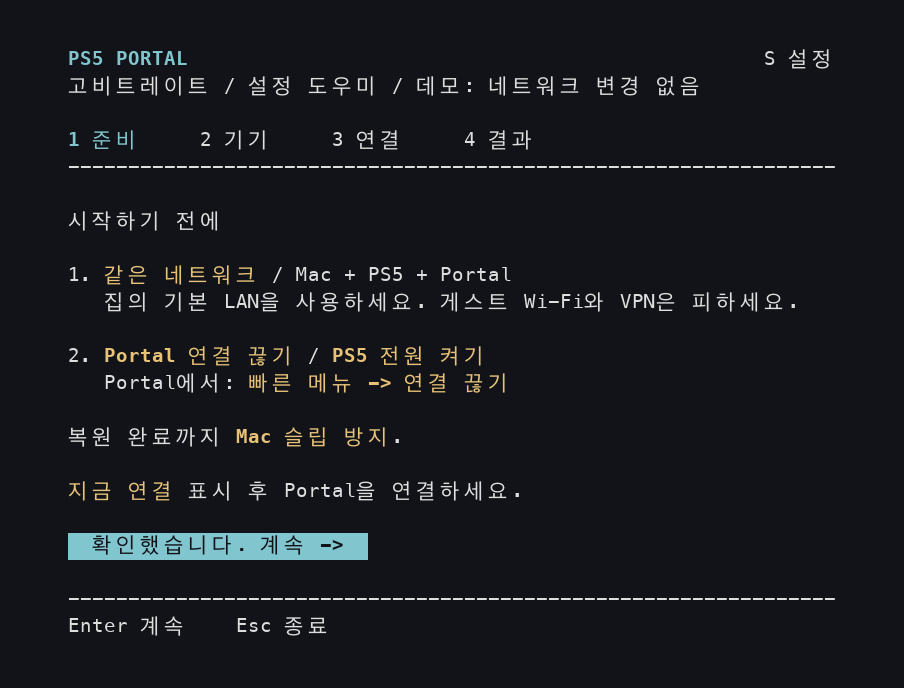
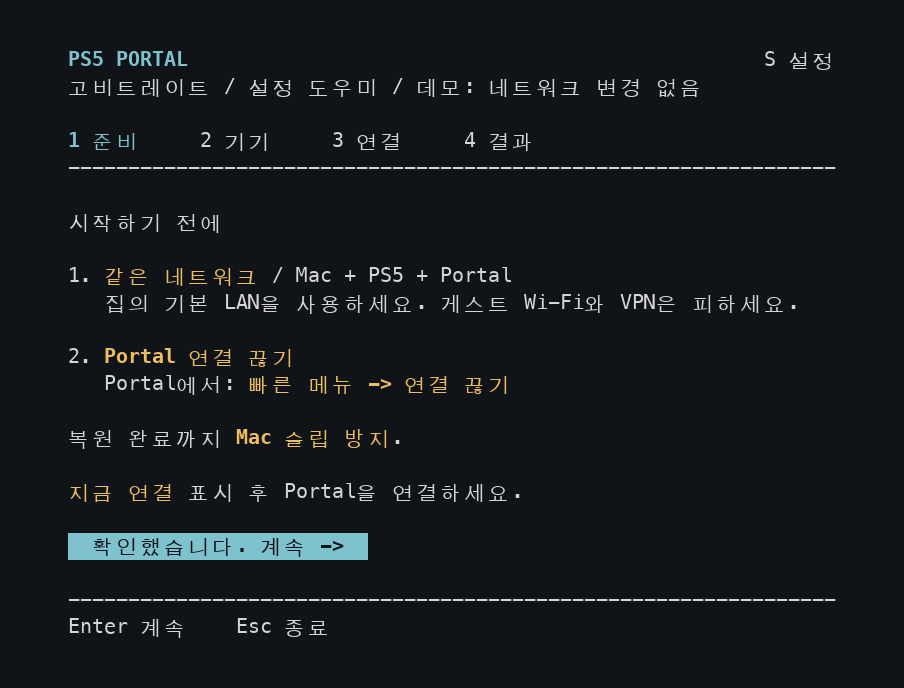
docs: remove the PS5 power-on prerequisite

diff --git a/portal_tui.py b/portal_tui.py
@@ -126,8 +126,8 @@ def summarize(report):
         title = ('Attempt stopped' if message == 'Cancelled by user' else
                  'Setup check failed' if report.get('preflight_failed') else 'Could not finish')
         return Result('warning', title, message,
-                      ('No network mappings were changed. Keep both devices awake on the same LAN. '
-                       'Check the addresses and LAN adapter, then try again.'
+                      ('No network mappings were changed. '
+                       'Check the device addresses and LAN adapter, then try again.'
                        if report.get('preflight_failed') else
                        'Network restoration completed. You can try again or quit.'))
     if not report.get('unique_mutated_sequences'):
@@ -492,8 +492,7 @@ class Wizard:
                             ('  /  Mac + PS5 + Portal', 0))
                 self.put(10, 7, 'Use the main LAN; avoid guest Wi-Fi and VPN routes.', self.curses.A_DIM)
                 self.inline(12, 4, ('2. ', self.curses.A_DIM),
-                            ('DISCONNECT PORTAL', highlight),
-                            ('  /  keep ', 0), ('PS5 powered on', highlight))
+                            ('DISCONNECT PORTAL', highlight))
                 self.inline(13, 7, ('On Portal: ', self.curses.A_DIM),
                             ('Quick Menu -> Disconnect', highlight))
                 self.inline(15, 4, ('Keep this ', 0), ('Mac awake', highlight),

diff --git a/portal_auto_platform.py b/portal_auto_platform.py
@@ -79,7 +79,7 @@ def state_for(c, enroll=False):
         found = {win.normal_mac(r[ARP].hwsrc) for _, r in ans if ARP in r and r[ARP].op == 2 and r[ARP].psrc == ip}
         if enroll:
             if len(found) != 1:
-                raise RuntimeError(f'{ip}: wake the device and verify its IP, then enroll again.')
+                raise RuntimeError(f'{ip}: verify the device IP and LAN connection, then enroll again.')
             state[key] = found.pop()
         else:
             state[key] = win.normal_mac(c[key])

diff --git a/AUTOMATION.md b/AUTOMATION.md
@@ -16,7 +16,7 @@ The packet-layout gate and inferred offsets have the same firmware limitations a
 2. Install **64-bit Python 3.10+ from [python.org](https://www.python.org/downloads/windows/)**. For the startup task, use the full installer, select installation for all users under `C:\Program Files`, and install the Python launcher. A Microsoft Store or per-user Python installation is not suitable for the SYSTEM task.
 3. Install [Npcap](https://npcap.com/#download), with WinPcap API-compatible mode. Normal Ethernet framing is required; do not enable Wi-Fi monitor mode. This project does not bundle Npcap. Reboot if its installer requests it.
 4. Run `Setup-Windows.cmd`. It creates `.venv`, installs the pinned Scapy dependency and runs offline tests. If `py -3` chooses a per-user Python, recreate `.venv` using your all-users Python's full path before proceeding.
-5. Power on PS5 and Portal. Right-click `Auto-Windows.cmd`, choose **Run as administrator**, enter `Configure`, then profile `65` for the first test. Select the **menu number** of the Ethernet/Wi-Fi adapter connected to your PS5/Portal LAN, then enter both device IPv4 addresses. The PC IP printed beside the adapter is information only. Older preview.1 asks for an interface name/GUID: use the adapter name or full Npcap device ID, never the PC IP. Their MAC addresses are enrolled locally. Use no VPN, guest network or client isolation.
+5. Keep Portal on and connected to Wi-Fi. Right-click `Auto-Windows.cmd`, choose **Run as administrator**, enter `Configure`, then profile `65` for the first test. Select the **menu number** of the Ethernet/Wi-Fi adapter connected to your PS5/Portal LAN, then enter both device IPv4 addresses. The PC IP printed beside the adapter is information only. Older preview.1 asks for an interface name/GUID: use the adapter name or full Npcap device ID, never the PC IP. Their MAC addresses are enrolled locally. Use no VPN, guest network or client isolation.
 6. Disconnect Portal's play session. Run the same menu as administrator, choose `Baseline`. After **BASELINE READY**, connect Portal and check picture and controls for 60 seconds. This forwards without changing the bitrate. A receipt is saved only if outbound traffic was forwarded and recovery completed. It does not automatically verify video or responsiveness.
 7. If baseline is usable, choose `Run` for a foreground active trial. After **AUTO READY**, disconnect/reconnect Portal. Check the Portal's network display and play a moving scene. Stop with Ctrl+C and allow restoration. If this fails, do not install the task.
 8. Choose `Install` only after those tests. Confirm your baseline observation. The installer copies an allowlist of files into an Administrators/SYSTEM-only folder under `C:\ProgramData\PortalBitrateAuto`, creates its own virtual environment and registers `PortalBitrateAutoPreview` in Task Scheduler as SYSTEM at startup. It starts the task now. No account password/token is saved.
@@ -38,7 +38,7 @@ sh Auto-Linux.sh setup
 sh Auto-Linux.sh configure 65
 ```
 
-The configure step asks for the physical LAN interface (for example `eth0` or `enp3s0`) and both IPv4 addresses. Find yours with `ip -br link` and `ip -br addr`. Both devices must be awake during enrollment.
+The configure step asks for the physical LAN interface (for example `eth0` or `enp3s0`) and both IPv4 addresses. Find yours with `ip -br link` and `ip -br addr`. Both devices must be reachable on the LAN during enrollment.
 
 1. Disconnect Portal's play session. Run `sh Auto-Linux.sh baseline` and connect after **BASELINE READY**. Check picture and controls during the 60-second unchanged relay trial.
 2. If usable, run `sh Auto-Linux.sh run`. Connect after **AUTO READY**, check the Portal display and play. Ctrl+C stops and repairs its ARP entry.

diff --git a/WINDOWS.md b/WINDOWS.md
@@ -23,7 +23,7 @@ You do not need Git or Wireshark. Installation downloads Scapy and [windows-curs
 
 On first launch, choose **English, 简体中文, 日本語, 한국어, Español or Français**. Your choice is saved. Press **S** later to change language without restarting.
 
-1. **Prepare:** keep Portal disconnected from PS5, keep PS5 on, and check that PC, PS5 and Portal use the same home network.
+1. **Prepare:** keep Portal disconnected from PS5 and check that PC, PS5 and Portal use the same home network.
 2. **Devices:** enter the PS5 and Portal **IPv4 addresses** from your router’s device list. On first use, **PC LAN adapter** suggests the connection Windows uses to reach both devices directly. Check it, or use **← / →** to choose your Wi-Fi or Ethernet connection. Saved and manual choices are kept. If no connection can be suggested, choose it yourself and check both addresses. Choose **65 Mbps** for your first attempt, then **Save and prepare connection**. Use Tab or ↑ / ↓ to move between rows and Enter to continue.
 3. **Connect:** keep Portal disconnected during **WAIT**. When **CONNECT NOW** appears, connect Portal to PS5 normally. The **120-second countdown** starts at that prompt. A request near the end still gets its own confirmation window. Follow the terminal art as the request, PS5 acceptance and target reports arrive.
 4. **Result:** **Bitrate target confirmed** means the software observed the higher target, checked local packet egress and completed its restoration steps. **Check picture, sound and controls on Portal.** If the screen is black, disconnect and reconnect normally without Better Portal. Press **D** for local report/recovery details, **Enter** to retry when allowed, or **Q** to quit.
@@ -58,7 +58,7 @@ Read the error below the title. Press **D**, then **↑ / ↓**, to read the ful
 
 **A device cannot be reached, or the route/forwarding check fails.**
 
-Keep both devices awake, check their current IPv4 addresses, and select the adapter on the same home LAN. Avoid guest Wi-Fi, client isolation, VPN routes and Internet Connection Sharing on that adapter. The tool checks routing and forwarding; it does not change firewall, registry or forwarding settings. Do not disable the firewall to work around an error.
+Keep Portal awake, check both current IPv4 addresses, and select the adapter on the same home LAN. Avoid guest Wi-Fi, client isolation, VPN routes and Internet Connection Sharing on that adapter. The tool checks routing and forwarding; it does not change firewall, registry or forwarding settings. Do not disable the firewall to work around an error.
 
 **There is no new connection, or the countdown expires.**
 
